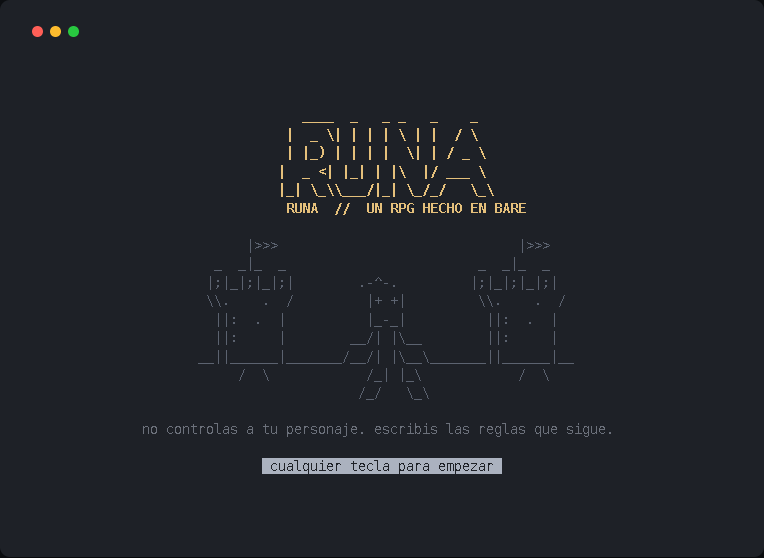
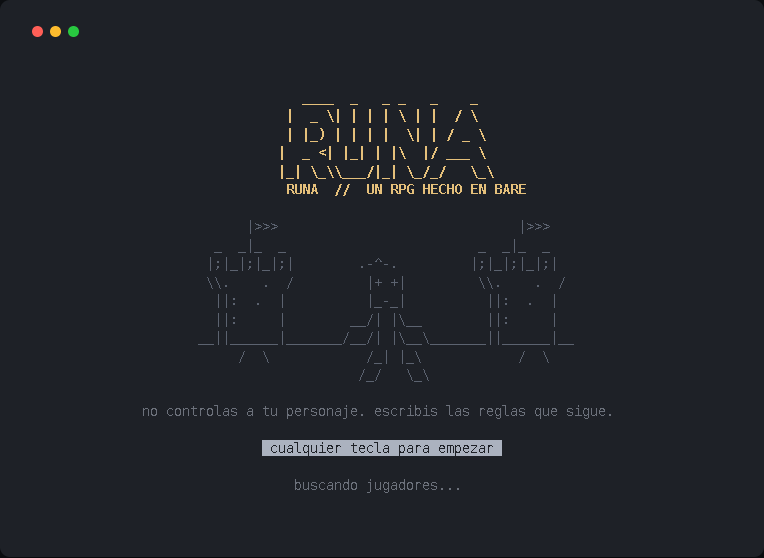
feat: el menu dice que esta haciendo la red
El enjambre es la parte del juego que un jugador no puede ver funcionando. Dos
copias se encuentran sin servidor en el medio y todo eso pasa en silencio
absoluto: nada en pantalla admitia que la red existiera hasta que alguien te
pasaba caminando por al lado en el pueblo. Si nadie pasa nunca, y la mayoria de
las noches no va a pasar nadie, la funcion podria no estar y se veria igual.

El titulo es el lugar mas barato y honesto para decirlo, porque es la unica
pantalla que mira todo el mundo y dibujarla no cuesta nada. Seis estados, todos
ciertos:

  modo un jugador                 la red esta apagada a proposito
  la red no arranco, jugas solo   se intento y fallo
  buscando jugadores...           el enjambre esta arriba y no encontro a nadie
  conectando...                   hay conexion, todavia nadie dijo donde esta
  1 jugador mas en linea
  3 jugadores mas en linea

Estar buscando y estar sin red son dos afirmaciones distintas sobre el mundo, y
la gracia de poner esto en pantalla es justamente dejar de callarse cual de las
dos es cierta. Por eso conectando tiene su propia linea en vez de colapsarse en
buscando: es un estado real, corto, pero meterlo en la bolsa de al lado seria
una mentira chica en la pantalla que existe para dejar de mentir.

La linea se dibuja ultima y es lo PRIMERO que se cae cuando la terminal es
corta. El logo y el prompt son para lo que existe esa pantalla; un estado que
[…]

diff --git a/test/index.js b/test/index.js
@@ -288,3 +288,66 @@ test('dying puts you at the church it says it puts you at', (t) => {
   t.is(game.walker.x, door.x, 'you wake up at its door, not near the gate')
   t.is(game.walker.y, door.y)
 })
+
+test('the title screen says what the swarm is actually doing', (t) => {
+  const fake = (peers, conns) => ({
+    others: () => new Array(peers).fill({ name: 'x' }),
+    conns: new Set(new Array(conns).fill(0).map((_, i) => i))
+  })
+
+  const wired = (peers, conns, started) => {
+    const game = new Runa({ presence: false })
+    game.update({ type: 'resize', width: 88, height: 26 })
+    game.online = true
+    game.presence = fake(peers, conns)
+    game.presenceStarted = started
+    return game
+  }
+
+  const solo = new Runa({ presence: false })
+  solo.update({ type: 'resize', width: 88, height: 26 })
+  t.is(solo.presenceLine(), 'modo un jugador', 'playing alone says so')
+
+  t.is(wired(0, 0, false).presenceLine(), 'la red no arranco, jugas solo')
+
+  // Searching and offline are different claims about the world, and the whole
+  // point of putting this on screen is to stop the game being silent about
+  // which one is true.
+  t.is(wired(0, 0, true).presenceLine(), 'buscando jugadores...')
+  t.is(wired(0, 1, true).presenceLine(), 'conectando...')
+  t.is(wired(1, 1, true).presenceLine(), '1 jugador mas en linea')
+  t.is(wired(3, 1, true).presenceLine(), '3 jugadores mas en linea')
+
+  const screen = style.stripAnsi(wired(3, 1, true).view())
+  t.ok(screen.indexOf('3 jugadores mas en linea') !== -1, 'and it reaches the screen')
+})
+
+test('the swarm line never pushes the title off its own screen', (t) => {
+  const game = new Runa({ presence: false })
+  game.online = true
+  game.presence = { others: () => [{ name: 'ana' }], conns: new Set([0]) }
+  game.presenceStarted = true
+
+  // 64 by 16 is the smallest terminal the game agrees to draw in at all, so it
+  // is the size where an extra line is most likely to cost something. The logo
+  // and the prompt are what this screen exists for: the status is the first
+  // thing that gets dropped, not the last.
+  for (const [w, h] of [
+    [64, 16],
+    [80, 20],
+    [88, 26],
+    [200, 50]
+  ]) {
+    game.update({ type: 'resize', width: w, height: h })
+    const screen = style.stripAnsi(game.view())
+    const lines = screen.split('\n')
+
+    t.is(lines.length, h, 'exactly ' + h + ' rows at ' + w + 'x' + h)
+    t.ok(
+      lines.every((line) => line.length === w),
+      'every row is exactly ' + w + ' wide'
+    )
+    t.ok(screen.indexOf('RUNA') !== -1, 'the logo survives at ' + w + 'x' + h)
+    t.ok(screen.indexOf('cualquier tecla') !== -1, 'and so does the prompt')
+  }
+})

diff --git a/lib/game.js b/lib/game.js
@@ -692,6 +692,40 @@ class Runa {
    * @returns {object|null}
    */
   /**
+   * One line for the title screen about who else is out there.
+   *
+   * The swarm is the part of this game a player cannot see working. Two copies
+   * find each other with no server in the middle, and the whole thing happens
+   * in complete silence: nothing on screen ever admitted the network existed
+   * until somebody happened to walk past you in town. If nobody ever walks
+   * past, and on most nights nobody will, the feature may as well not be there.
+   *
+   * The title is the cheapest honest place to say it, because it is the one
+   * screen every player looks at and it costs the game nothing to draw. And it
+   * stays honest when the answer is nobody: "buscando jugadores" is a true
+   * sentence about a swarm that has found no peers, which is not the same
+   * claim as being offline, and the difference is worth showing.
+   *
+   * @returns {string}
+   */
+  presenceLine() {
+    if (!this.online || !this.presence) return 'modo un jugador'
+    if (!this.presenceStarted) return 'la red no arranco, jugas solo'
+
+    const peers = this.presence.others().length
+    if (peers === 1) return '1 jugador mas en linea'
+    if (peers > 1) return peers + ' jugadores mas en linea'
+
+    // Connected to somebody who has not said where they are yet. A real state,
+    // and a short one, but collapsing it into "buscando" would be a small lie
+    // on exactly the screen that is meant to stop the lying.
+    const conns = this.presence.conns ? this.presence.conns.size : 0
+    if (conns > 0) return 'conectando...'
+
+    return 'buscando jugadores...'
+  }
+
+  /**
    * Put the player at the church door after dying.
    *
    * The log said "you wake up in the church" and `walker.travel('city')` left
@@ -812,7 +846,7 @@ class Runa {
   }
 
   view() {
-    if (this.title) return render.titleScreen(this.width, this.height)
+    if (this.title) return render.titleScreen(this.width, this.height, this.presenceLine())
 
     if (this.width < render.MIN_WIDTH || this.height < render.MIN_HEIGHT) {
       return render.tooSmall(this.width, this.height)

diff --git a/lib/render.js b/lib/render.js
@@ -481,7 +481,7 @@ const LOGO = [
  * @param {number} h
  * @returns {string}
  */
-function titleScreen(w, h) {
+function titleScreen(w, h, status) {
   w = Math.max(0, Math.floor(w))
   h = Math.max(0, Math.floor(h))
   const wordmark = LOGO.slice(0, WORDMARK_LINES)
@@ -513,6 +513,18 @@ function titleScreen(w, h) {
     '',
     centre(style().reverse(true).render(' cualquier tecla para empezar '))
   ]
+
+  // Who else is out there, if the caller knows. It goes last and it is the
+  // first thing dropped when the terminal is short: the logo and the prompt are
+  // what this screen is for, and a status line that pushes them off the bottom
+  // has made things worse than saying nothing.
+  const note = ascii(String(status || '')).trim()
+  if (note && note.length <= w - 2) {
+    body.push('')
+    body.push(centre(style().faint(true).render(note)))
+    if (body.length > h) body.length -= 2
+  }
+
   const pad = Math.max(0, Math.floor((h - body.length) / 2))
   const out = Array(pad).fill('').concat(body)
   while (out.length < h) out.push('')
